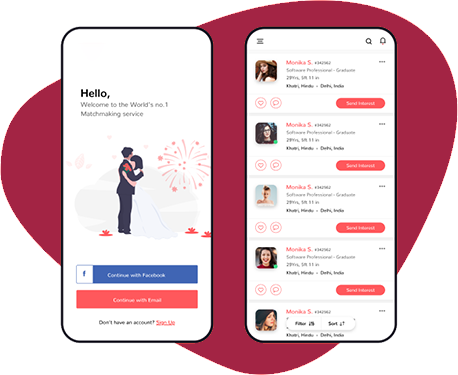
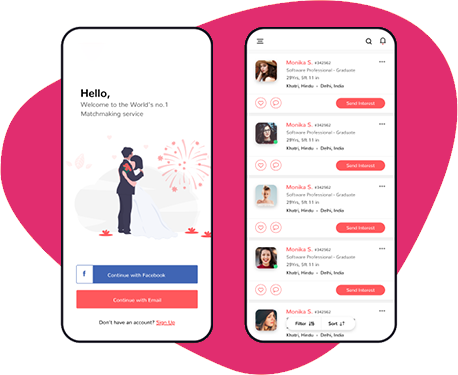
monday

Changed region(s): [[0.3974, 0.0, 1.0, 0.9973], [0.0, 0.2053, 0.1528, 0.704]]

diff --git a/assets/css/style.css b/assets/css/style.css
@@ -392,7 +392,7 @@ li > a:only-child:after {
   box-sizing: border-box;
 }
 .banner-form-w3 .padding {
-  background-color: rgba(163, 36, 68,0.4);
+  background-color: rgba(225, 45, 111,0.5);
   /* -webkit-box-shadow: 0px 0px 10px 5px rgba(0, 0, 0, 0.5);
   -moz-box-shadow: 0px 0px 10px 5px rgba(0, 0, 0, 0.5);
   box-shadow: 0px 0px 10px 5px rgba(0, 0, 0, 0.5); */
@@ -595,26 +595,11 @@ h2.heading {
   line-height: 1em;
   color: #ff8a01;
   font-weight: 500;
-  background: rgb(163, 36, 68);
-  background: -moz-linear-gradient(
-    90deg,
-    rgba(163, 36, 68, 1) 0%,
-    rgba(236, 123, 29, 1) 49%,
-    rgba(236, 123, 29, 1) 100%
-  );
-  background: -webkit-linear-gradient(
-    90deg,
-    rgba(163, 36, 68, 1) 0%,
-    rgba(236, 123, 29, 1) 49%,
-    rgba(236, 123, 29, 1) 100%
-  );
-  background: linear-gradient(
-    90deg,
-    rgba(163, 36, 68, 1) 0%,
-    rgba(236, 123, 29, 1) 49%,
-    rgba(236, 123, 29, 1) 100%
-  );
-  filter: progid:DXImageTransform.Microsoft.gradient(startColorstr="#a32444",endColorstr="#ec7b1d",GradientType=1);
+  background: rgb(225,45,111);
+  background: -moz-linear-gradient(90deg, rgba(225,45,111,1) 0%, rgba(225,45,111,1) 25%, rgba(236,123,29,1) 55%, rgba(236,123,29,1) 100%);
+  background: -webkit-linear-gradient(90deg, rgba(225,45,111,1) 0%, rgba(225,45,111,1) 25%, rgba(236,123,29,1) 55%, rgba(236,123,29,1) 100%);
+  background: linear-gradient(90deg, rgba(225,45,111,1) 0%, rgba(225,45,111,1) 25%, rgba(236,123,29,1) 55%, rgba(236,123,29,1) 100%);
+  filter: progid:DXImageTransform.Microsoft.gradient(startColorstr="#e12d6f",endColorstr="#ec7b1d",GradientType=1); 
   color: transparent;
   -webkit-background-clip: text;
   -webkit-text-fill-color: transparent;
@@ -625,8 +610,8 @@ h2.heading {
 .animate-charcter {
   background-image: linear-gradient(
     -225deg,
-    #a32444 0%,
-    #a83353 29%,
+    #e12d6f 0%,
+    #e12d6f 29%,
     #ec7b1d 67%,
     #ec7b1d 100%
   );
@@ -744,7 +729,7 @@ h2.heading {
   font-weight: 700;
 }
 .btn-box .btn:hover {
-  background-color: #a32444;
+  background-color: #e12d6f;
 }
 .anim-icons.full-width {
   max-width: 100%;
@@ -770,7 +755,7 @@ h2.heading {
   margin-bottom: 60px;
 }
 .services-inner {
-  border: 1px solid #a32444;
+  border: 1px solid #e12d6f;
   transition: 0.3s;
   background: #fff;
   -webkit-box-shadow: 0 3px 0 0 rgba(90, 122, 190, 0.12);
@@ -789,7 +774,7 @@ h2.heading {
 }
 .our-services-img span.fa {
   font-size: 70px;
-  color: #a32444;
+  color: #e12d6f;
 }
 .our-services-text {
   padding-right: 10px;
@@ -799,7 +784,7 @@ h2.heading {
   padding: 30px 0 0;
 }
 .our-services-text h4 {
-  color: #a32444;
+  color: #e12d6f;
   font-size: 18px;
   font-weight: 700;
   letter-spacing: 1px;
@@ -809,7 +794,7 @@ h2.heading {
   text-transform: capitalize;
 }
 .our-services-text h4::before {
-  background: #a32444 none repeat scroll 0 0;
+  background: #e12d6f none repeat scroll 0 0;
   bottom: 0;
   content: "";
   height: 1px;
@@ -817,7 +802,7 @@ h2.heading {
   width: 40px;
 }
 .our-services-wrapper:hover .services-inner {
-  background: #a32444 none repeat scroll 0 0;
+  background: #e12d6f none repeat scroll 0 0;
   box-shadow: 0px 1px 10px 0px rgba(0, 0, 0, 0.2);
 }
 .our-services-text p {
@@ -827,7 +812,7 @@ h2.heading {
   font-size: 14px;
   font-weight: 400;
   line-height: 26px;
-  color: #a32444;
+  color: #e12d6f;
 }
 .services {
   position: relative;
@@ -918,7 +903,7 @@ h2.heading {
 }
 
 .pricing-header h5 {
-  background: #a32444;
+  background: #e12d6f;
   color: #fff;
   line-height: normal;
   margin: 0 auto;
@@ -1062,7 +1047,7 @@ h2.heading {
 
 .ribbon span {
   top: 0;
-  color: #a32444;
+  color: #e12d6f;
   font-size: 13px;
   font-weight: 500;
   float: left;
@@ -1070,7 +1055,7 @@ h2.heading {
 }
 
 .ribbon i {
-  color: #a32444;
+  color: #e12d6f;
   font-weight: 800;
   font-size: 14px;
   margin: 11px;
@@ -1210,7 +1195,7 @@ h2.heading {
   border: none;
 }
 .pricing-col.current .pricing-header {
-  background-color: #a32444;
+  background-color: #e12d6f;
   color: #fff;
 }
 .pricing-col.current .pricing-header h5 {
@@ -1218,7 +1203,7 @@ h2.heading {
 }
 .comparison-table .pricing-col.current .pricing-feature li,
 .comparison-table .pricing-col.current .pricing-feature li:nth-child(2n + 1) {
-  background: #a32444;
+  background: #e12d6f;
   border-bottom: 1px solid #fff;
 }
 .comparison-table .pricing-col.current .pricing-feature li p {
@@ -1226,7 +1211,7 @@ h2.heading {
 }
 .btn-white {
   background-color: #fff;
-  color: #a32444;
+  color: #e12d6f;
   border-color: #fff;
   border-radius: 0;
 }
@@ -1243,7 +1228,7 @@ h2.heading {
 
 .current .pricing-footer {
   height: 160px;
-  background-color: #a32444;
+  background-color: #e12d6f;
 }
 
 .current:hover {
@@ -1453,7 +1438,7 @@ p.para-text-w3ls {
   border: 8px solid #aaa;
 }
 .w3layouts_stats_left {
-  border: 1px solid #a32444;
+  border: 1px solid #e12d6f;
   padding: 1em 0;
   background: #fff;
 }
@@ -1539,21 +1524,21 @@ p.para-text-w3ls {
     0 10px 20px 0 rgba(90, 122, 190, 0.2);
   box-shadow: 0 1px 1px 0 rgba(90, 122, 190, 0.1),
     0 10px 20px 0 rgba(90, 122, 190, 0.2);
-  background-color: #a32444;
+  background-color: #e12d6f;
   color: #fff;
 }
 .btn-red {
   color: #fff;
-  border-color: #a32444;
+  border-color: #e12d6f;
   border-radius: 0;
-  background-color: #a32444;
+  background-color: #e12d6f;
 }
 .btn-red:hover,
 .btn-red:active,
 .btn-red:focus {
   background-color: #fff;
-  border-color: #a32444;
-  color: #a32444;
+  border-color: #e12d6f;
+  color: #e12d6f;
 }
 .btn-white:hover,
 .btn-white:active,
@@ -1561,21 +1546,21 @@ p.para-text-w3ls {
 .btn-white:not(:disabled):not(.disabled):active:focus,
 .btn-white:not(:disabled):not(.disabled).active:focus,
 .btn-white:not(:disabled):not(.disabled):active {
-  color: #a32444;
+  color: #e12d6f;
   background-color: #fff;
   border-color: #fff;
   outline: none;
   box-shadow: none;
 }
 .btn-primary.orange {
-  background-color: #a32444;
+  background-color: #e12d6f;
   color: #fff;
 }
 .text-orange {
-  color: #a32444;
+  color: #e12d6f;
 }
 .border-orange {
-  border-color: #a32444;
+  border-color: #e12d6f;
 }
 .text-disabled {
   color: #aaa;
